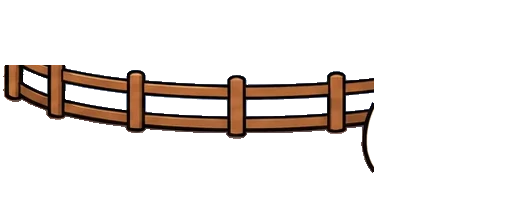
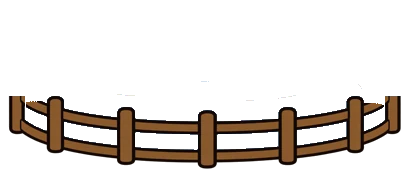
크리스마스 광장: 눈사람·스케이트장을 주인이 ChatGPT로 다시 그린 것으로, 스케이터를 가리는 앞 펜스 겹도 새 스케이트장 그림에서 잘라냄(얼음 가운데선 아래 펜스) — 이제 광장 소품 전부 다시 그린 그림 (tools/make_plaza_props.py·make_plaza_rink.py)
Claude-Session: https://claude.ai/code/session_013gkWdjqDwwMfs8SrUNHEXQ

diff --git a/tools/make_plaza_rink.py b/tools/make_plaza_rink.py
@@ -1,42 +1,33 @@
 #!/usr/bin/env python3
-"""크리스마스 광장 스케이트장 앞 겹 (XMAS_PLAZA_PLAN.md 3-10).
-배경 그림의 스케이트장 앞쪽 펜스만 잘라(눈사람은 사계절 광장에서 따로 소품) web/plaza/rink-front-day.webp · rink-front-night.webp로.
-스케이트 타는 손님을 그 뒤에 그리고 이 겹을 위에 얹으면 펜스 너머로 보인다.
-고르기는 낮 그림 색으로(펜스 갈색·외곽선 진한 색·눈사람 흰색·빨강) 하고, 같은 자리 픽셀을 밤 그림에서도 똑같이 자른다(밤 그림은 낮과 구도가 같음).
-자르는 곳: BOX 안에서 — 앞 펜스 띠(y ≥ FRONT_Y), 눈사람(x ≥ SNOW_X). 바닥(회색 돌)·얼음(하늘색)은 빼고."""
+"""크리스마스 광장 스케이트장 앞 펜스 겹 (XMAS_PLAZA_PLAN.md 3-10).
+스케이트장 소품(주인이 ChatGPT로 다시 그린 것, assets/plaza/props/rink-day·night-source-v1.png — 참고 상자 REF 자리)에서
+앞쪽 펜스만 잘라 web/plaza/rink-front-day·night.webp로. 스케이트 타는 손님을 스케이트장 위에 그린 뒤 이 겹을 얹으면 펜스 너머로 보인다.
+앞쪽 = 열마다 얼음(하늘색)의 위·아래 끝 가운데보다 아래에 있는 얼음 아닌 불투명 픽셀(펜스). 얼음이 없는 열(양끝 기둥)은 FRONT_END_Y 아래.
+(2026-11-16 전: 옛 크리스마스 그림에서 펜스를 색으로 골라 잘랐음)"""
 from pathlib import Path
 from PIL import Image
 import numpy as np
 
 ROOT = Path(__file__).resolve().parent.parent
-BOX = (995, 780, 1520, 989)  # x0, y0, x1, y1
-FRONT_Y, LEFT_X, LEFT_Y, SNOW_X = 846, 1050, 792, 1368
+REF = (985, 750)  # tools/make_plaza_props.py REF rink 와 같게
+FRONT_END_Y = 95  # 얼음 없는 열에서 이 y(그림 px) 아래를 앞으로
 
-day = np.array(Image.open(ROOT / 'web/plaza/xmas-day.webp').convert('RGBA')).astype(int)
-night = np.array(Image.open(ROOT / 'web/plaza/xmas-night.webp').convert('RGBA'))
-x0, y0, x1, y1 = BOX
-d = day[y0:y1, x0:x1]
-r, g, b, a = d[..., 0], d[..., 1], d[..., 2], d[..., 3]
-mx, mn = np.maximum(np.maximum(r, g), b), np.minimum(np.minimum(r, g), b)
-sat = mx - mn
-brown = (r > g) & (g > b) & (r - b > 45)
-dark = mx < 90
-red = (r > 170) & (g < 110) & (b < 110)
-white = mn > 228
-ice = (b > r + 18) & (mx > 170)
-ground = (sat < 30) & (mx >= 90) & (mx <= 228)
-yy, xx = np.mgrid[y0:y1, x0:x1]
-zone = yy >= FRONT_Y  # 왼쪽 끝 기둥은 안 자름(손님이 거기까지 안 감 — 자르면 뒤쪽 펜스와 어긋나 보임)
-snow = xx >= SNOW_X
-keep = (a > 40) & ~ice & ~ground & zone & ~snow & (brown | dark)  # 눈사람은 따로 소품(props/snowman)이라 뺌
-# 외곽선이 끊기지 않게 한 칸 넓힘
-k = keep.copy()
-k[1:] |= keep[:-1]; k[:-1] |= keep[1:]; k[:, 1:] |= keep[:, :-1]; k[:, :-1] |= keep[:, 1:]
-k &= ~ice | (keep)
-for name, arr in (('day', day.astype(np.uint8)), ('night', night)):
-    c = arr[y0:y1, x0:x1].copy()
-    c[..., 3] = np.where(k, c[..., 3], 0)
-    out = ROOT / f'web/plaza/rink-front-{name}.webp'
-    Image.fromarray(c, 'RGBA').save(out, 'WEBP', quality=90, method=6)
-    print(out.relative_to(ROOT), c.shape[1], 'x', c.shape[0], out.stat().st_size // 1024, 'KB')
-print('at', [x0, y0])
+for name in ('day', 'night'):
+    a = np.array(Image.open(ROOT / f'assets/plaza/props/rink-{name}-source-v1.png').convert('RGBA'))
+    a[..., 3] = np.where(a[..., 3] < 12, 0, a[..., 3])
+    r, g, b, al = [a[..., i].astype(int) for i in range(4)]
+    ice = (al > 200) & (b > r + 15) & (b > 120)
+    H, W = al.shape
+    keep = np.zeros((H, W), bool)
+    for x in range(W):
+        ys = np.nonzero(ice[:, x])[0]
+        mid = (ys.min() + ys.max()) / 2 if len(ys) > 3 else FRONT_END_Y
+        col = (al[:, x] > 0) & ~ice[:, x]
+        col[:int(mid) + 1] = False
+        keep[:, x] = col
+    out = a.copy()
+    out[..., 3] = np.where(keep, a[..., 3], 0)
+    path = ROOT / f'web/plaza/rink-front-{name}.webp'
+    Image.fromarray(out, 'RGBA').save(path, 'WEBP', quality=90, method=6, alpha_quality=100, exact=False)
+    print(path.name, W, 'x', H)
+print('at', list(REF))

diff --git a/tools/make_plaza_props.py b/tools/make_plaza_props.py
@@ -125,7 +125,7 @@ for pid in ORDER:
     print(f'{pid:11s} 자리 {places[pid][:2]} 크기 {places[pid][2:]}')
 # 다시 그려 받은 소품 (2026-11-16: 차이 뽑기로는 회전목마·노점이 누덕누덕 — 주인이 ChatGPT로 같은 크기로 다시, 배경 투명):
 # assets/plaza/props/<id>-day·night-source-v1.png 는 assets/plaza/prop-ref/<id>-*-ref.png(아래 REF 상자를 자른 것)와 같은 크기·자리
-REF = {'carousel': (30, 390), 'stall': (186, 745), 'tree': (469, 20), 'gifts-left': (495, 695), 'gift-right': (862, 750)}  # tree: 참고 상자 (460, 20)에서 꼭대기 별을 맞추려 x +9
+REF = {'carousel': (30, 390), 'stall': (186, 745), 'tree': (469, 20), 'gifts-left': (495, 695), 'gift-right': (862, 750), 'snowman': (1340, 720), 'rink': (985, 750)}  # tree: 참고 상자 (460, 20)에서 꼭대기 별을 맞추려 x +9
 for pid, (rx, ry) in REF.items():
     srcs = {n: ROOT / f'assets/plaza/props/{pid}-{n}-source-v1.png' for n in ('day', 'night')}
     if not all(f.exists() for f in srcs.values()):
